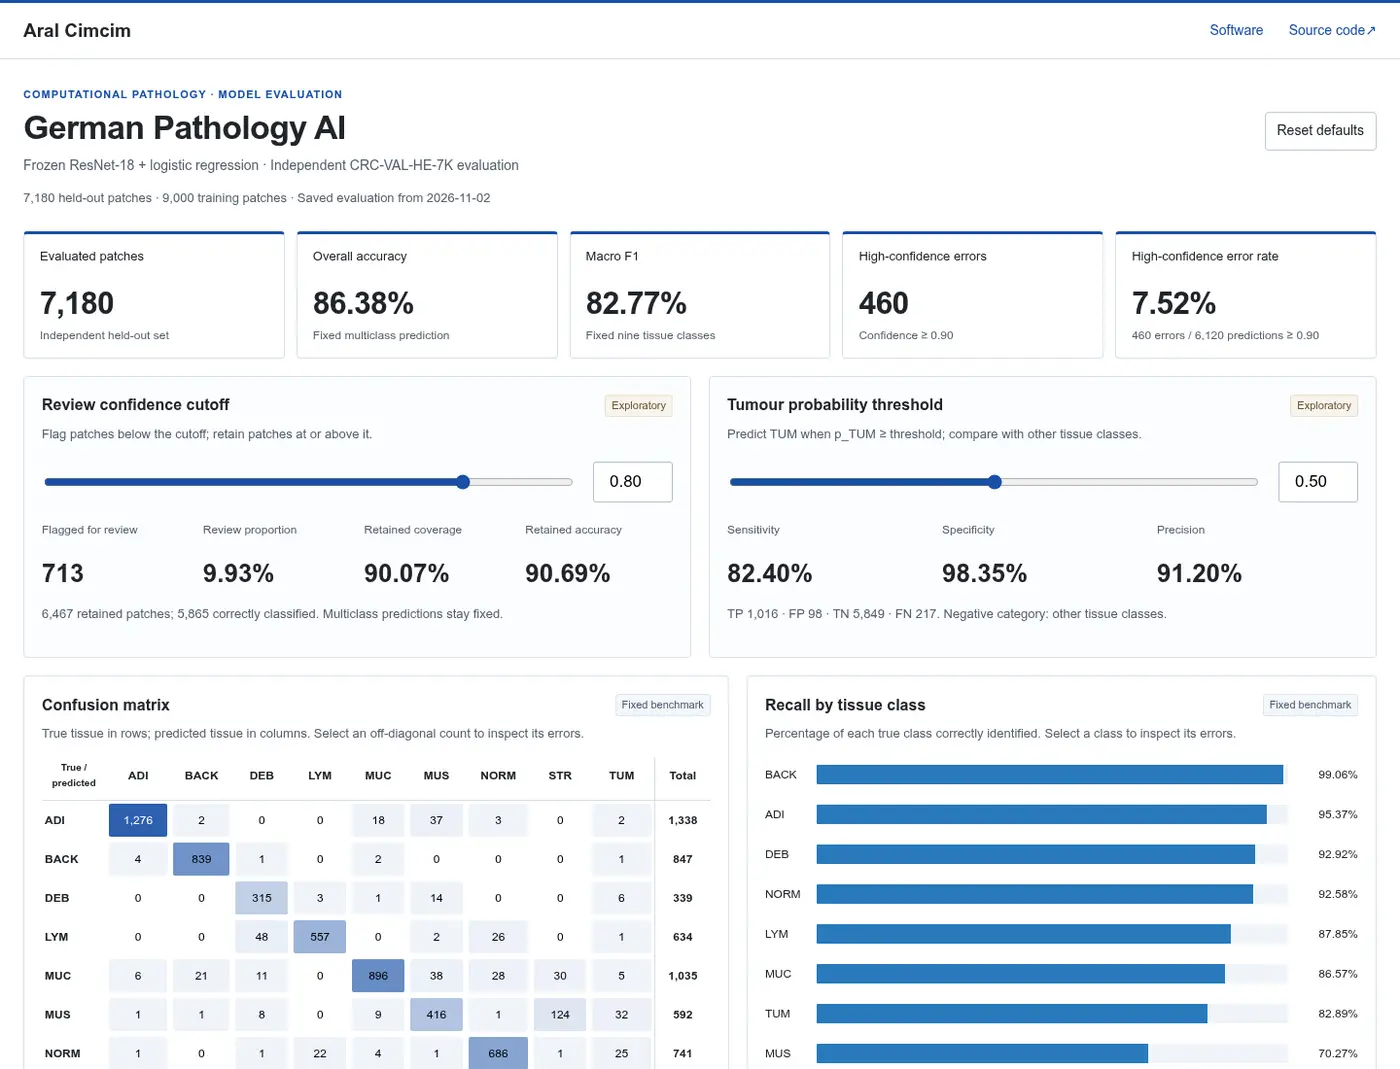
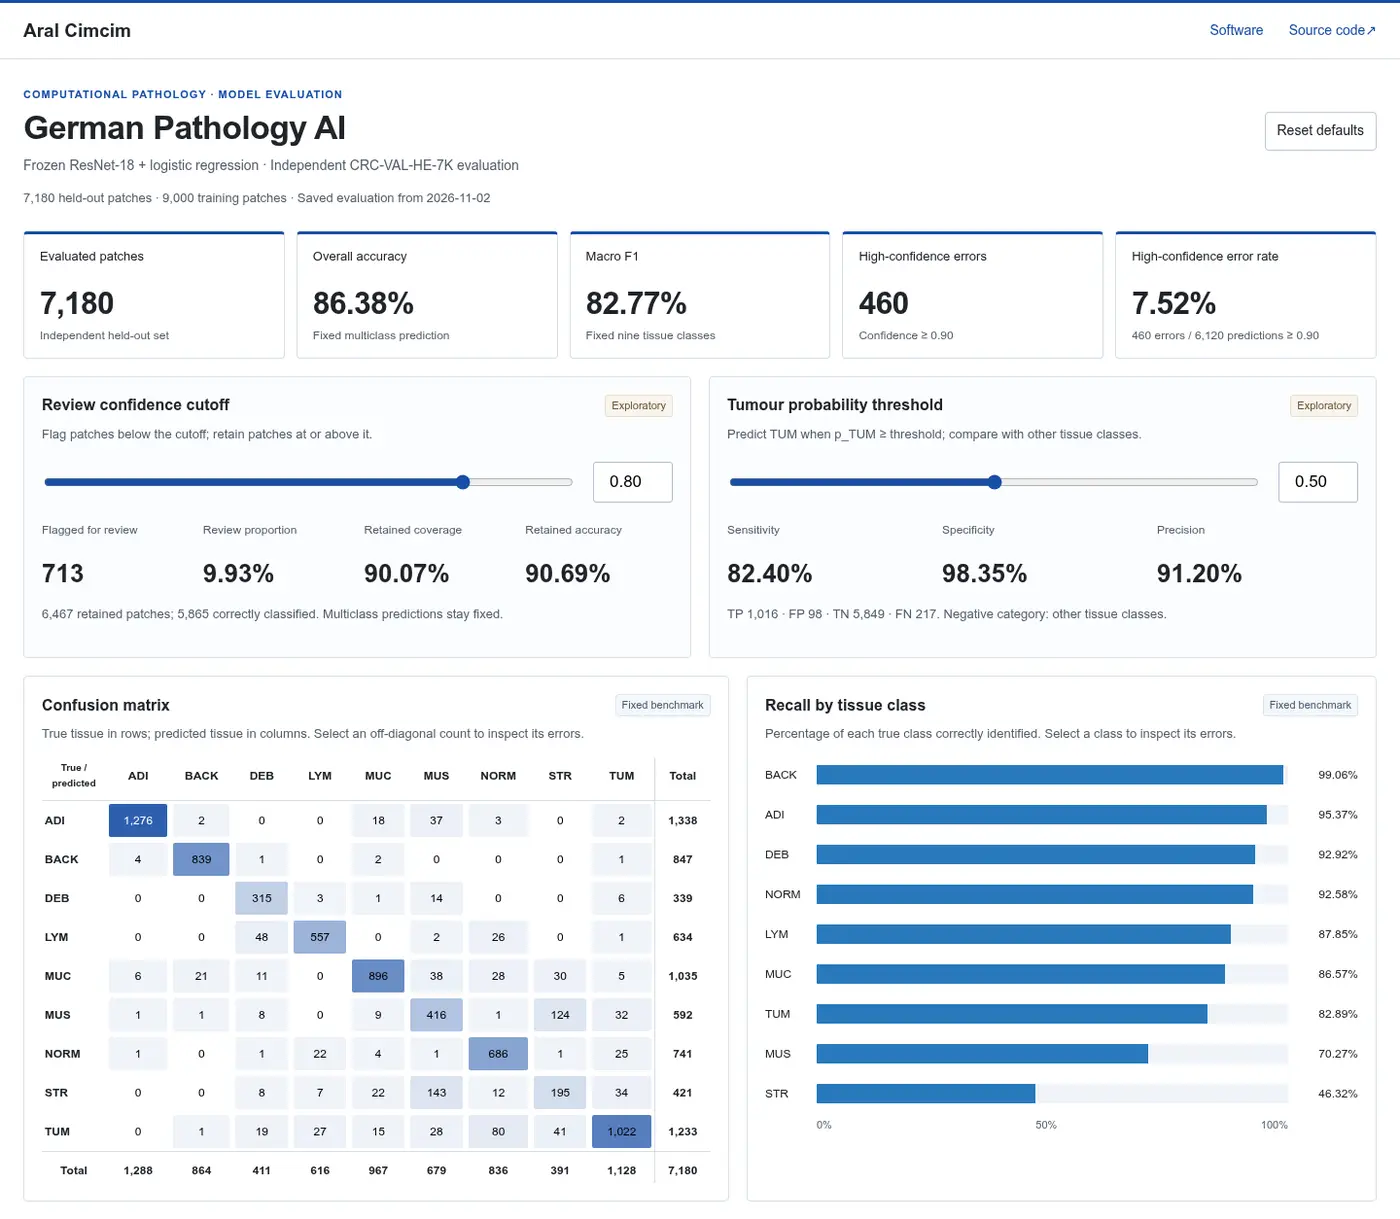
Deploying to gh-pages from @ aralcimcim/aralcimcim.github.io@cda2fd7515dfd23261194820b90c369b197c999b 🚀

diff --git a/projects/pathology-ai/index.html b/projects/pathology-ai/index.html
@@ -2,7 +2,7 @@
   :root {
     --max-content-width: 960px;
   }
-</style> <link rel="stylesheet" href="/assets/css/tailwind.css?v=50c64c15cbb9fd1ce6056fdb8bcb4b62"> <link defer rel="stylesheet" href="https://cdn.jsdelivr.net/npm/@fortawesome/fontawesome-free@7.2.0/css/all.min.css" integrity="sha256-MVopmdyC2tYTiJ8wlktf0uh0v4NgT+vNdyVFepi7Q0c=" crossorigin="anonymous"> <link defer rel="stylesheet" href="https://cdn.jsdelivr.net/npm/academicons@1.9.5/css/academicons.min.css" integrity="sha256-SzrCOBJbGVFMahewkgjwnApaV2+av1DwMAA+/QGLyZw=" crossorigin="anonymous"> <link defer rel="stylesheet" href="https://cdn.jsdelivr.net/npm/scholar-icons@1.0.3/css/scholar-icons.css" integrity="sha256-VY3hHVj/hNX3fYG6wtbA6TcKJQl7+FthzGSyIB64klY=" crossorigin="anonymous"> <link defer rel="stylesheet" href="/assets/css/jekyll-pygments-themes-github.css?v=591dab5a4e56573bf4ef7fd332894c99" media="" id="highlight_theme_light"> <link rel="shortcut icon" href="/assets/img/favicon.svg?v=9eb65551440acaad51c3176a8170c486"> <link rel="stylesheet" href="/assets/css/main.css?v=3116ba77db9ee1581d05bb3e86fbf7f1"> <link rel="canonical" href="https://aralcimcim.github.io/projects/pathology-ai/"> <link rel="stylesheet" href="/assets/css/academic.css?v=2f0f15252dd7c3975d0e33f6dd727000"> <script defer src="/assets/js/portfolio-nav.js?v=1ad2b3cf23e300eb82dc89ddd18026d9"></script> </head> <body class=" sticky-bottom-footer"> <a class="skip-link" href="#main-content">Skip to content</a> <header class="portfolio-header"> <nav class="portfolio-nav container" aria-label="Main navigation"> <a class="portfolio-brand" href="/">Aral Cimcim</a> <button class="portfolio-menu-toggle collapsed" type="button" aria-controls="portfolio-menu" aria-expanded="false" aria-label="Toggle navigation"> Menu <span aria-hidden="true">+</span> </button> <div class="portfolio-menu" id="portfolio-menu"> <a href="/research/">Research</a> <a href="/industry/" aria-current="page">Software</a> <a href="/about/">About</a> <a href="mailto:cimcimaral@gmail.com">Contact</a> </div> </nav> <progress id="progress" value="0" aria-label="Reading progress"> <div class="progress-container"><span class="progress-bar"></span></div> </progress> </header> <div class="container" role="main" id="main-content" tabindex="-1"> <div class="post"> <header class="post-header"> <h1 class="post-title">German Pathology AI</h1> <p class="post-description">An interactive dashboard for tissue classification errors, confidence, and review thresholds.</p> </header> <article> <h2 id="overview">Overview</h2> <p>An interactive model evaluation dashboard built from 7,180 held-out colorectal histology patches. It brings together a confusion matrix, recall by tissue class, confidence distributions, and a searchable table of individual misclassifications.</p> <p><a href="https://aralcimcim.github.io/german-pathology-ai/">Open the interactive dashboard</a> · <a href="https://github.com/aralcimcim/german-pathology-ai" rel="external nofollow noopener" target="_blank">View the code on GitHub</a></p> <figure class="project-preview"> <a href="https://aralcimcim.github.io/german-pathology-ai/"> <img src="/assets/img/projects/pathology-ai-dashboard.png" alt="Pathology evaluation dashboard showing actual results, independent review and tumour controls, a confusion matrix, and class recall" width="1440" height="1100" loading="lazy"> </a> <figcaption>Model evaluation workspace. Open the dashboard to explore the results.</figcaption> </figure> <h2 id="how-it-works">How it works</h2> <p>A frozen ImageNet ResNet-18 encoder extracts image representations. A StandardScaler and logistic regression are fitted on 9,000 training patches, sampled from the normalized NCT-CRC-HE-100K dataset. The complete CRC-VAL-HE-7K dataset is reserved for held-out evaluation.</p> <p>The dashboard runs in the browser using the exported predictions. Independent controls explore confidence-based review coverage and tumour probability thresholds. Selecting a matrix cell, tissue class, or confidence bin filters the error table. Users can search, sort, and download those errors as CSV.</p> <h2 id="results">Results</h2> <table> <thead> <tr> <th>Held-out benchmark</th> <th style="text-align: right">Result</th> </tr> </thead> <tbody> <tr> <td>Evaluated patches</td> <td style="text-align: right">7,180</td> </tr> <tr> <td>Overall accuracy</td> <td style="text-align: right">86.38%</td> </tr> <tr> <td>Macro F1 across nine classes</td> <td style="text-align: right">82.77%</td> </tr> <tr> <td>Tumour sensitivity at threshold 0.50</td> <td style="text-align: right">82.40%</td> </tr> <tr> <td>Tumour specificity at threshold 0.50</td> <td style="text-align: right">98.35%</td> </tr> </tbody> </table> <p>The browser checks all 54 saved metrics before showing the results. The repository includes the Colab notebook, fitted classifier, run metadata, prediction CSVs, Power BI measures, and automated dashboard checks.</p> <p>Results describe image patches, not patient diagnoses. Patches within a patient are correlated, confidence scores are uncalibrated, and threshold changes are exploratory.</p> <p><strong>Data:</strong> Kather, Halama and Marx (2018), <a href="https://doi.org/10.5281/zenodo.1214456" rel="external nofollow noopener" target="_blank">100,000 histological images of human colorectal cancer and healthy tissue</a>, Zenodo, CC BY 4.0.</p> <p><strong>Tools:</strong> Python, PyTorch, scikit-learn, JavaScript, and Power BI.</p> </article> </div> </div> <script>
+</style> <link rel="stylesheet" href="/assets/css/tailwind.css?v=50c64c15cbb9fd1ce6056fdb8bcb4b62"> <link defer rel="stylesheet" href="https://cdn.jsdelivr.net/npm/@fortawesome/fontawesome-free@7.2.0/css/all.min.css" integrity="sha256-MVopmdyC2tYTiJ8wlktf0uh0v4NgT+vNdyVFepi7Q0c=" crossorigin="anonymous"> <link defer rel="stylesheet" href="https://cdn.jsdelivr.net/npm/academicons@1.9.5/css/academicons.min.css" integrity="sha256-SzrCOBJbGVFMahewkgjwnApaV2+av1DwMAA+/QGLyZw=" crossorigin="anonymous"> <link defer rel="stylesheet" href="https://cdn.jsdelivr.net/npm/scholar-icons@1.0.3/css/scholar-icons.css" integrity="sha256-VY3hHVj/hNX3fYG6wtbA6TcKJQl7+FthzGSyIB64klY=" crossorigin="anonymous"> <link defer rel="stylesheet" href="/assets/css/jekyll-pygments-themes-github.css?v=591dab5a4e56573bf4ef7fd332894c99" media="" id="highlight_theme_light"> <link rel="shortcut icon" href="/assets/img/favicon.svg?v=9eb65551440acaad51c3176a8170c486"> <link rel="stylesheet" href="/assets/css/main.css?v=3116ba77db9ee1581d05bb3e86fbf7f1"> <link rel="canonical" href="https://aralcimcim.github.io/projects/pathology-ai/"> <link rel="stylesheet" href="/assets/css/academic.css?v=2f0f15252dd7c3975d0e33f6dd727000"> <script defer src="/assets/js/portfolio-nav.js?v=1ad2b3cf23e300eb82dc89ddd18026d9"></script> </head> <body class=" sticky-bottom-footer"> <a class="skip-link" href="#main-content">Skip to content</a> <header class="portfolio-header"> <nav class="portfolio-nav container" aria-label="Main navigation"> <a class="portfolio-brand" href="/">Aral Cimcim</a> <button class="portfolio-menu-toggle collapsed" type="button" aria-controls="portfolio-menu" aria-expanded="false" aria-label="Toggle navigation"> Menu <span aria-hidden="true">+</span> </button> <div class="portfolio-menu" id="portfolio-menu"> <a href="/research/">Research</a> <a href="/industry/" aria-current="page">Software</a> <a href="/about/">About</a> <a href="mailto:cimcimaral@gmail.com">Contact</a> </div> </nav> <progress id="progress" value="0" aria-label="Reading progress"> <div class="progress-container"><span class="progress-bar"></span></div> </progress> </header> <div class="container" role="main" id="main-content" tabindex="-1"> <div class="post"> <header class="post-header"> <h1 class="post-title">German Pathology AI</h1> <p class="post-description">An interactive dashboard for tissue classification errors, confidence, and review thresholds.</p> </header> <article> <h2 id="overview">Overview</h2> <p>An interactive model evaluation dashboard built from 7,180 held-out colorectal histology patches. It brings together a confusion matrix, recall by tissue class, confidence distributions, and a searchable table of individual misclassifications.</p> <p><a href="https://aralcimcim.github.io/german-pathology-ai/">Open the interactive dashboard</a> · <a href="https://github.com/aralcimcim/german-pathology-ai" rel="external nofollow noopener" target="_blank">View the code on GitHub</a></p> <figure class="project-preview"> <a href="https://aralcimcim.github.io/german-pathology-ai/"> <img src="/assets/img/projects/pathology-ai-dashboard.png" alt="Pathology evaluation dashboard showing actual results, independent review and tumour controls, a confusion matrix, and class recall" width="1440" height="1254" loading="lazy"> </a> <figcaption>Model evaluation workspace. Open the dashboard to explore the results.</figcaption> </figure> <h2 id="how-it-works">How it works</h2> <p>A frozen ImageNet ResNet-18 encoder extracts image representations. A StandardScaler and logistic regression are fitted on 9,000 training patches, sampled from the normalized NCT-CRC-HE-100K dataset. The complete CRC-VAL-HE-7K dataset is reserved for held-out evaluation.</p> <p>The dashboard runs in the browser using the exported predictions. Independent controls explore confidence-based review coverage and tumour probability thresholds. Selecting a matrix cell, tissue class, or confidence bin filters the error table. Users can search, sort, and download those errors as CSV.</p> <h2 id="results">Results</h2> <table> <thead> <tr> <th>Held-out benchmark</th> <th style="text-align: right">Result</th> </tr> </thead> <tbody> <tr> <td>Evaluated patches</td> <td style="text-align: right">7,180</td> </tr> <tr> <td>Overall accuracy</td> <td style="text-align: right">86.38%</td> </tr> <tr> <td>Macro F1 across nine classes</td> <td style="text-align: right">82.77%</td> </tr> <tr> <td>Tumour sensitivity at threshold 0.50</td> <td style="text-align: right">82.40%</td> </tr> <tr> <td>Tumour specificity at threshold 0.50</td> <td style="text-align: right">98.35%</td> </tr> </tbody> </table> <p>The browser checks all 54 saved metrics before showing the results. The repository includes the Colab notebook, fitted classifier, run metadata, prediction CSVs, Power BI measures, and automated dashboard checks.</p> <p>Results describe image patches, not patient diagnoses. Patches within a patient are correlated, confidence scores are uncalibrated, and threshold changes are exploratory.</p> <p><strong>Data:</strong> Kather, Halama and Marx (2018), <a href="https://doi.org/10.5281/zenodo.1214456" rel="external nofollow noopener" target="_blank">100,000 histological images of human colorectal cancer and healthy tissue</a>, Zenodo, CC BY 4.0.</p> <p><strong>Tools:</strong> Python, PyTorch, scikit-learn, JavaScript, and Power BI.</p> </article> </div> </div> <script>
   window.alFolio = {
     compatBootstrap: false
   };

diff --git a/assets/jupyter/blog.ipynb.html b/assets/jupyter/blog.ipynb.html
@@ -1,4 +1,4 @@
-<!DOCTYPE html> <html lang="en"> <head><meta charset="utf-8"/> <meta content="width=device-width, initial-scale=1.0" name="viewport"/> <title>jekyll-jupyter-notebook20261102-2976-xjgyd9</title><script src="https://cdnjs.cloudflare.com/ajax/libs/require.js/2.1.10/require.min.js"></script> <style type="text/css">
+<!DOCTYPE html> <html lang="en"> <head><meta charset="utf-8"/> <meta content="width=device-width, initial-scale=1.0" name="viewport"/> <title>jekyll-jupyter-notebook20261102-3009-9f522r</title><script src="https://cdnjs.cloudflare.com/ajax/libs/require.js/2.1.10/require.min.js"></script> <style type="text/css">
     pre { line-height: 125%; }
 td.linenos .normal { color: inherit; background-color: transparent; padding-left: 5px; padding-right: 5px; }
 span.linenos { color: inherit; background-color: transparent; padding-left: 5px; padding-right: 5px; }
